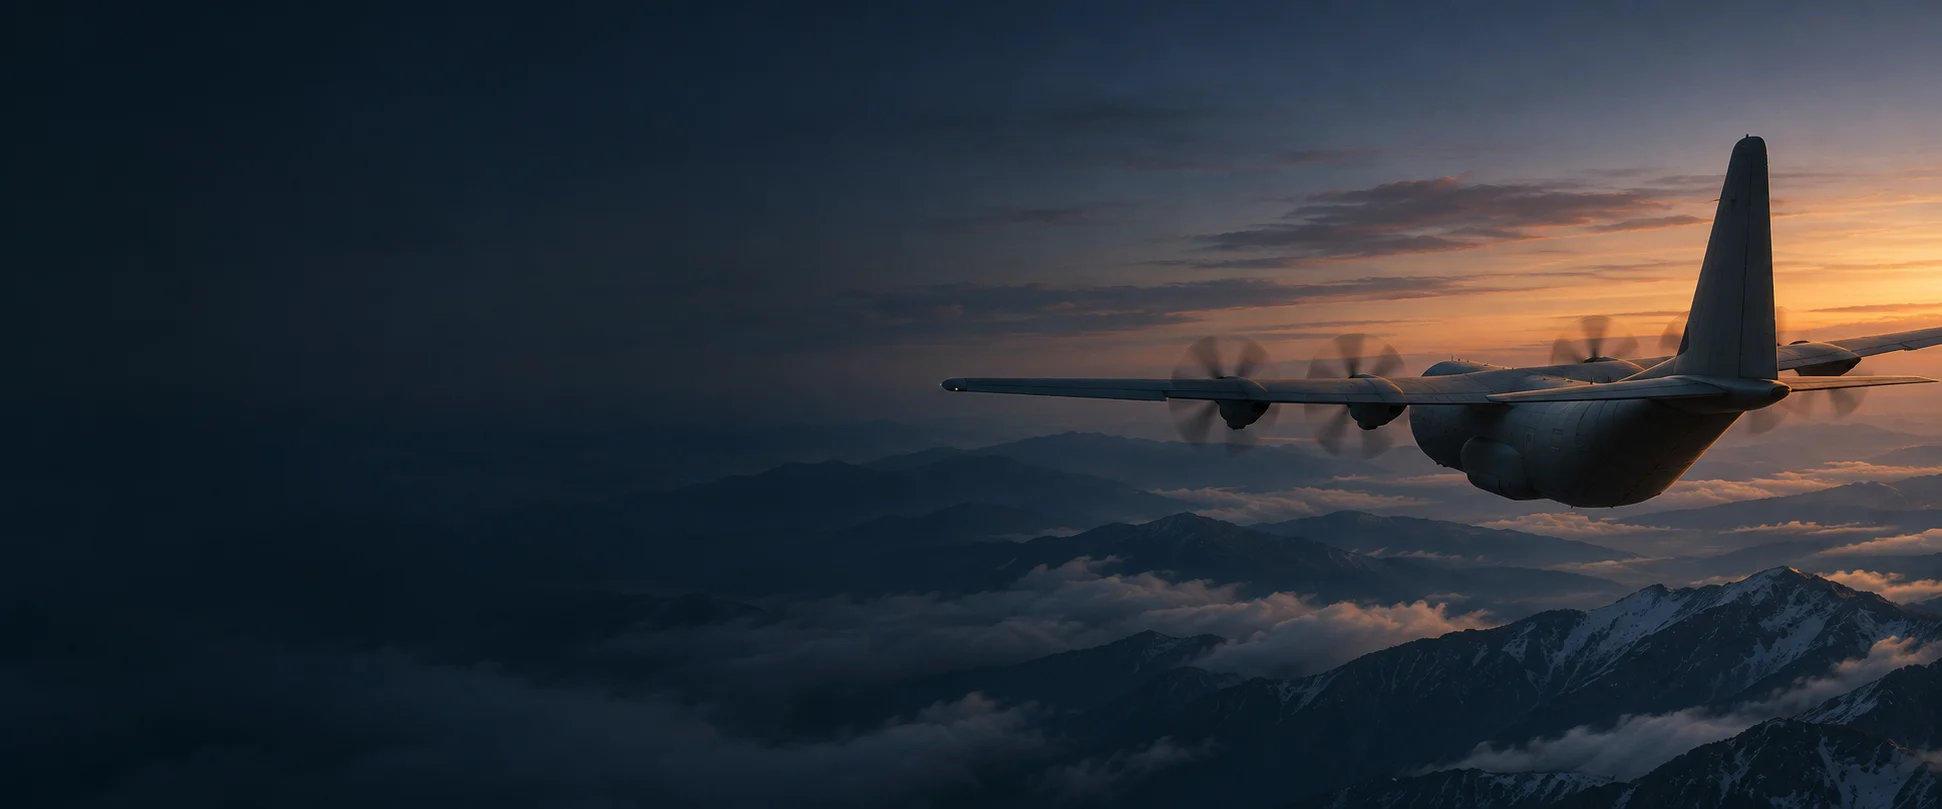
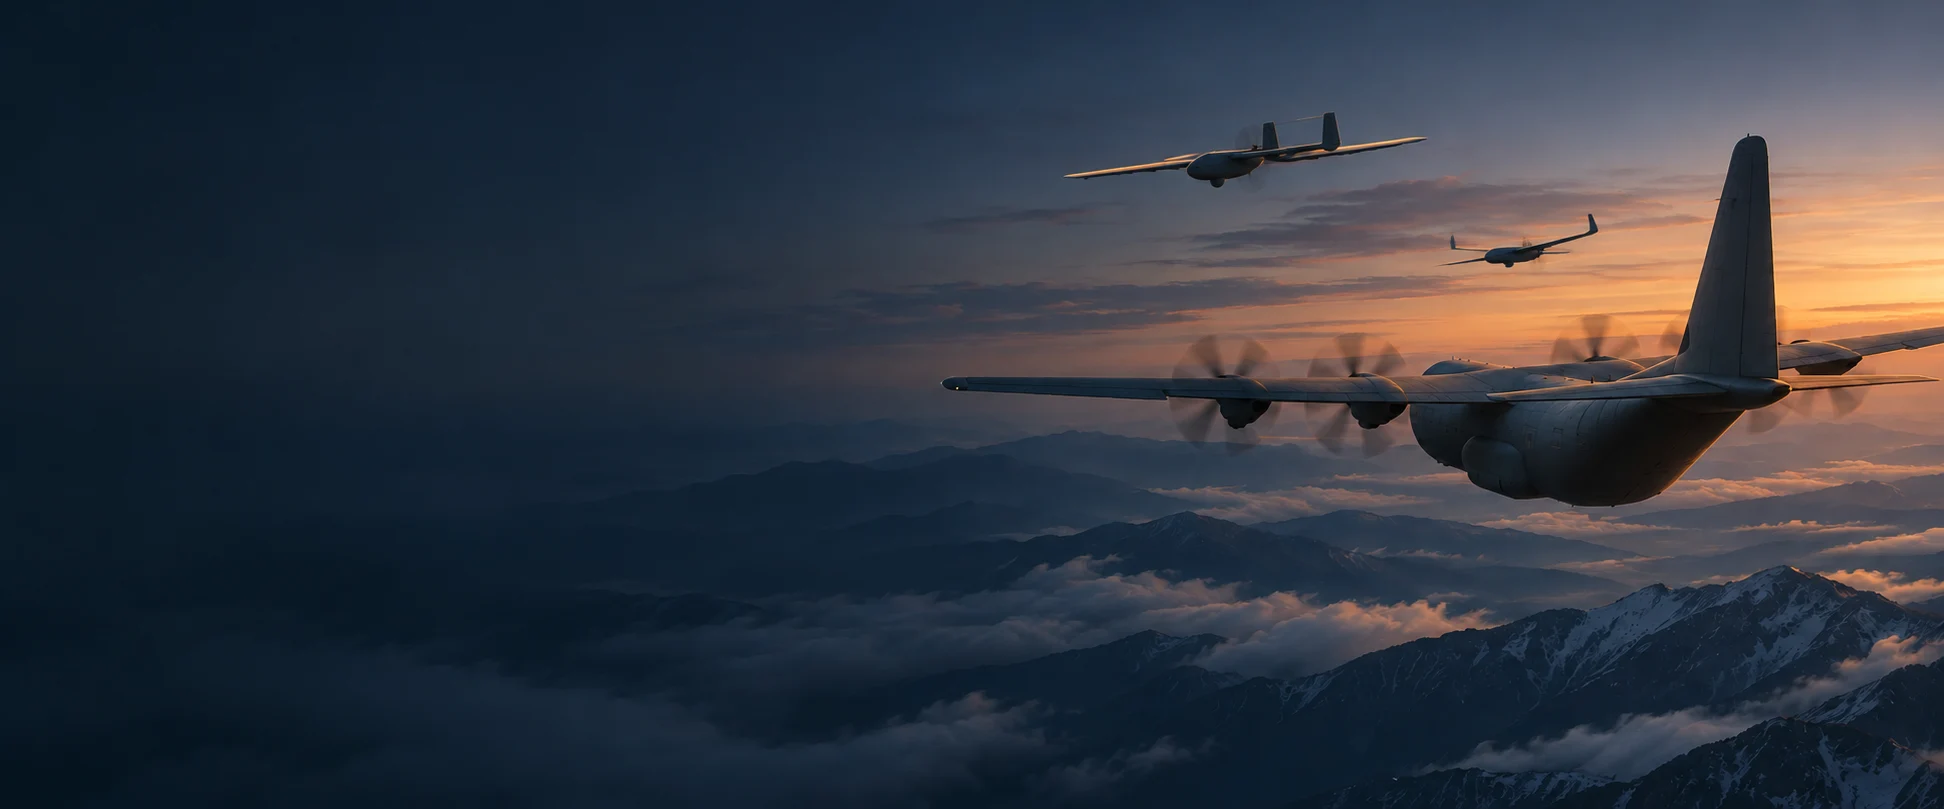
Add Blackjack and ScanEagle artwork to the homepage

diff --git a/app/globals.css b/app/globals.css
@@ -82,9 +82,9 @@ a:focus-visible, button:focus-visible, summary:focus-visible { outline: 3px soli
   .mobile-links summary span { margin-left:6px; }
   .mobile-links > div { position:absolute; top:100%; left:0; right:0; background:#fffdf9; border-bottom:1px solid #d9d6cf; padding:8px 5% 18px; }
   .mobile-links a { display:block; padding:11px 0; }
-  .flight-image { background-position:71% center; }
-  .flight-hero::before { background:linear-gradient(90deg,#091823e6,#09182373); }
-  .flight-copy { padding-block:80px; }
+  .flight-image { bottom: auto; height: 275px; background-position: right center; }
+  .flight-hero::before { background:linear-gradient(to bottom, transparent 100px, #101e2a 274px); }
+  .flight-copy { padding-block: 178px 56px; }
   .hero-actions { gap:14px 22px; }
   .credentials { display:grid; grid-template-columns:auto 1fr; gap:18px 20px; }
   .credentials > div:not(.decal-pair,.cert-title) { border:0; padding:0; }
